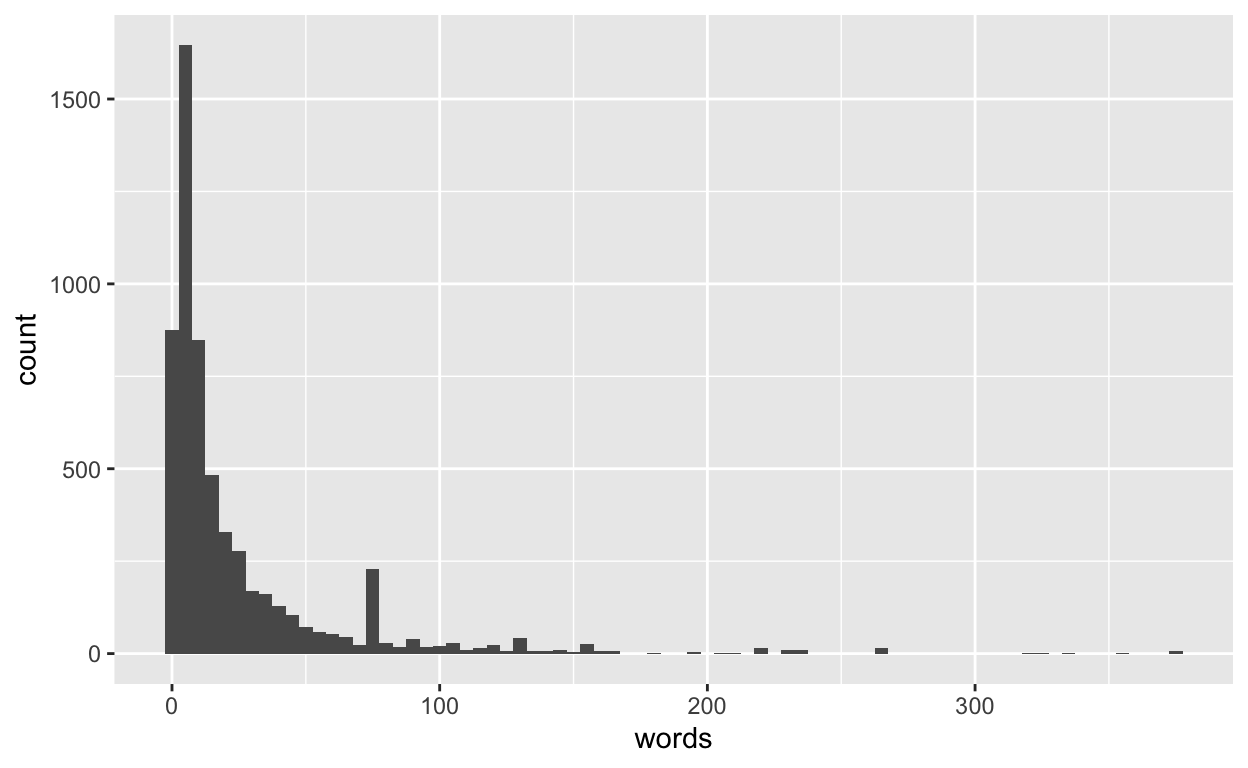
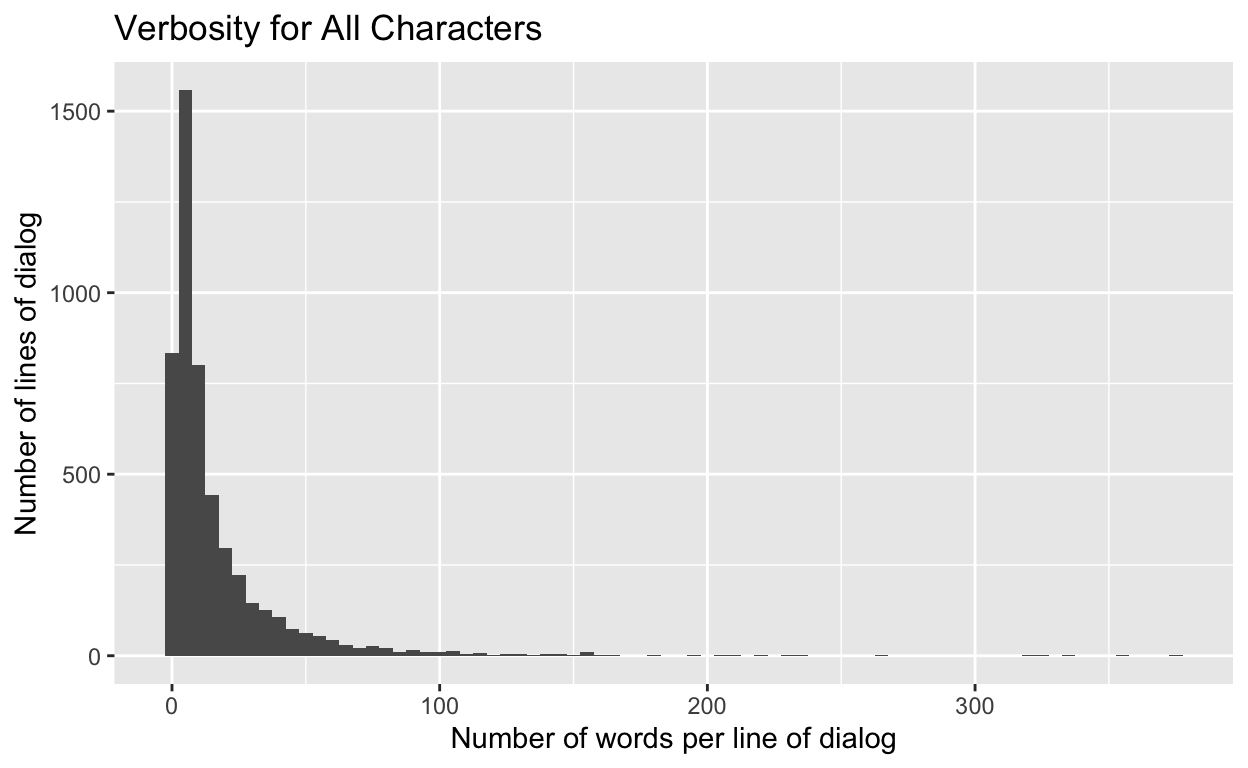
Build

diff --git a/docs/viz/2022-10-09-exploring-verbosity/index.html b/docs/viz/2022-10-09-exploring-verbosity/index.html
@@ -104,7 +104,7 @@ code span.wa { color: #5e5e5e; font-style: italic; } /* Warning */
 <meta property="og:type" content="article"/>
 <meta property="og:description" content="A brief look at how many words characters use per line of dialog"/>
 <meta property="og:url" content="https://syvwlch.github.io/Data-Ignota/viz/2022-10-09-exploring-verbosity/"/>
-<meta property="og:image" content="https://syvwlch.github.io/Data-Ignota/viz/2022-10-09-exploring-verbosity/exploring-verbosity_files/figure-html5/overall-1.png"/>
+<meta property="og:image" content="https://syvwlch.github.io/Data-Ignota/viz/2022-10-09-exploring-verbosity/exploring-verbosity_files/figure-html5/verbosity_wo_reader-1.png"/>
 <meta property="og:image:width" content="1248"/>
 <meta property="og:image:height" content="768"/>
 <meta property="og:locale" content="en_US"/>
@@ -115,7 +115,7 @@ code span.wa { color: #5e5e5e; font-style: italic; } /* Warning */
 <meta property="twitter:title" content="Data Ignota: Exploring Verbosity"/>
 <meta property="twitter:description" content="A brief look at how many words characters use per line of dialog"/>
 <meta property="twitter:url" content="https://syvwlch.github.io/Data-Ignota/viz/2022-10-09-exploring-verbosity/"/>
-<meta property="twitter:image" content="https://syvwlch.github.io/Data-Ignota/viz/2022-10-09-exploring-verbosity/exploring-verbosity_files/figure-html5/overall-1.png"/>
+<meta property="twitter:image" content="https://syvwlch.github.io/Data-Ignota/viz/2022-10-09-exploring-verbosity/exploring-verbosity_files/figure-html5/verbosity_wo_reader-1.png"/>
 <meta property="twitter:image:width" content="1248"/>
 <meta property="twitter:image:height" content="768"/>
 
@@ -134,7 +134,7 @@ code span.wa { color: #5e5e5e; font-style: italic; } /* Warning */
 <!--/radix_placeholder_rmarkdown_metadata-->
   
   <script type="text/json" id="radix-resource-manifest">
-  {"type":"character","attributes":{},"value":["exploring-verbosity_files/anchor-4.2.2/anchor.min.js","exploring-verbosity_files/bowser-1.9.3/bowser.min.js","exploring-verbosity_files/distill-2.2.21/template.v2.js","exploring-verbosity_files/figure-html5/overall-1.png","exploring-verbosity_files/header-attrs-2.16/header-attrs.js","exploring-verbosity_files/jquery-3.6.0/jquery-3.6.0.js","exploring-verbosity_files/jquery-3.6.0/jquery-3.6.0.min.js","exploring-verbosity_files/jquery-3.6.0/jquery-3.6.0.min.map","exploring-verbosity_files/popper-2.6.0/popper.min.js","exploring-verbosity_files/tippy-6.2.7/tippy-bundle.umd.min.js","exploring-verbosity_files/tippy-6.2.7/tippy-light-border.css","exploring-verbosity_files/tippy-6.2.7/tippy.css","exploring-verbosity_files/tippy-6.2.7/tippy.umd.min.js","exploring-verbosity_files/webcomponents-2.0.0/webcomponents.js"]}
+  {"type":"character","attributes":{},"value":["exploring-verbosity_files/anchor-4.2.2/anchor.min.js","exploring-verbosity_files/bowser-1.9.3/bowser.min.js","exploring-verbosity_files/distill-2.2.21/template.v2.js","exploring-verbosity_files/figure-html5/overall boxplot-1.png","exploring-verbosity_files/figure-html5/overall-1.png","exploring-verbosity_files/figure-html5/verbosity_by_character-1.png","exploring-verbosity_files/figure-html5/verbosity_by_language-1.png","exploring-verbosity_files/figure-html5/verbosity_Mycroft-1.png","exploring-verbosity_files/figure-html5/verbosity_wo_reader-1.png","exploring-verbosity_files/figure-html5/verbosity-1.png","exploring-verbosity_files/header-attrs-2.16/header-attrs.js","exploring-verbosity_files/jquery-3.6.0/jquery-3.6.0.js","exploring-verbosity_files/jquery-3.6.0/jquery-3.6.0.min.js","exploring-verbosity_files/jquery-3.6.0/jquery-3.6.0.min.map","exploring-verbosity_files/popper-2.6.0/popper.min.js","exploring-verbosity_files/tippy-6.2.7/tippy-bundle.umd.min.js","exploring-verbosity_files/tippy-6.2.7/tippy-light-border.css","exploring-verbosity_files/tippy-6.2.7/tippy.css","exploring-verbosity_files/tippy-6.2.7/tippy.umd.min.js","exploring-verbosity_files/webcomponents-2.0.0/webcomponents.js"]}
   </script>
   <!--radix_placeholder_navigation_in_header-->
 <meta name="distill:offset" content="../.."/>
@@ -2174,13 +2174,34 @@ RSS
 </div>
 
 <div class="d-article">
-<p>Let’s define, for now, verbosity as the tendency to use lots of words each time a character communicates with another.</p>
-<p>What visualizations of this concept can we generate from our <code>said.csv</code> file?</p>
+<p>Let’s define, for now, verbosity as the tendency to use lots of words each time a character communicates with another. What visualizations of this concept can we generate from the chapters edited to date, i.e. the first twelve?</p>
 <h2 id="overall-verbosity">Overall Verbosity</h2>
-<p>What does the distribution of the number of words per line look like?</p>
+<p>Verbosity overall in the novels follows a classic <em>Power Law Distribution</em> with a fairly long tail. This is pretty standard for human communications.</p>
 <div class="layout-chunk" data-layout="l-body">
-<p><img src="exploring-verbosity_files/figure-html5/overall-1.png" width="624" /></p>
+<p><img src="exploring-verbosity_files/figure-html5/verbosity-1.png" width="624" /></p>
 </div>
+<h2 id="verbosity-by-language">Verbosity by Language</h2>
+<p>Our cast of characters is much more verbose in some languages than others, e.g. archaic English, which the reader primarily uses to rant at Mycroft.</p>
+<div class="layout-chunk" data-layout="l-body">
+<p><img src="exploring-verbosity_files/figure-html5/verbosity_by_language-1.png" width="624" /></p>
+</div>
+<h2 id="verbosity-by-character">Verbosity by Character</h2>
+<p>Let’s define a main character as one who speaks or texts at least 25 lines of dialog, and look at a box plot of the number of words they use per line of dialog.</p>
+<div class="layout-chunk" data-layout="l-body">
+
+</div>
+<div class="layout-chunk" data-layout="l-body">
+<p><img src="exploring-verbosity_files/figure-html5/verbosity_by_character-1.png" width="624" /></p>
+</div>
+<p>Eureka’s median word count per line is highest, but Mycroft has some extreme outliers, as high as 350 words for one line of dialog off the right edge of that chart. Who could be on the receiving end of such prolixity?</p>
+<div class="layout-chunk" data-layout="l-body">
+<p><img src="exploring-verbosity_files/figure-html5/verbosity_Mycroft-1.png" width="624" /></p>
+</div>
+<p>Ah, of course. Mycroft is much more verbose in his historical &amp; philosophical asides to the reader. By contrast he’s almost monosyllabic with the Major. How does Mycroft’s verbosity compare to the others if we exclude the reader?</p>
+<div class="layout-chunk" data-layout="l-body">
+<p><img src="exploring-verbosity_files/figure-html5/verbosity_wo_reader-1.png" width="624" data-distill-preview=1 /></p>
+</div>
+<p>Mycroft is still in the top three but without his asides to the reader his verbosity is much more like the others’.</p>
 <div class="sourceCode" id="cb1"><pre class="sourceCode r distill-force-highlighting-css"><code class="sourceCode r"></code></pre></div>
 <!--radix_placeholder_article_footer-->
 <!--/radix_placeholder_article_footer-->

diff --git a/_viz/2022-10-09-exploring-verbosity/exploring-verbosity.html b/_viz/2022-10-09-exploring-verbosity/exploring-verbosity.html
@@ -118,7 +118,7 @@ code span.wa { color: #5e5e5e; font-style: italic; } /* Warning */
   <!--/radix_placeholder_rmarkdown_metadata-->
   
   <script type="text/json" id="radix-resource-manifest">
-  {"type":"character","attributes":{},"value":["exploring-verbosity_files/anchor-4.2.2/anchor.min.js","exploring-verbosity_files/bowser-1.9.3/bowser.min.js","exploring-verbosity_files/distill-2.2.21/template.v2.js","exploring-verbosity_files/figure-html5/overall-1.png","exploring-verbosity_files/header-attrs-2.16/header-attrs.js","exploring-verbosity_files/jquery-3.6.0/jquery-3.6.0.js","exploring-verbosity_files/jquery-3.6.0/jquery-3.6.0.min.js","exploring-verbosity_files/jquery-3.6.0/jquery-3.6.0.min.map","exploring-verbosity_files/popper-2.6.0/popper.min.js","exploring-verbosity_files/tippy-6.2.7/tippy-bundle.umd.min.js","exploring-verbosity_files/tippy-6.2.7/tippy-light-border.css","exploring-verbosity_files/tippy-6.2.7/tippy.css","exploring-verbosity_files/tippy-6.2.7/tippy.umd.min.js","exploring-verbosity_files/webcomponents-2.0.0/webcomponents.js"]}
+  {"type":"character","attributes":{},"value":["exploring-verbosity_files/anchor-4.2.2/anchor.min.js","exploring-verbosity_files/bowser-1.9.3/bowser.min.js","exploring-verbosity_files/distill-2.2.21/template.v2.js","exploring-verbosity_files/figure-html5/overall boxplot-1.png","exploring-verbosity_files/figure-html5/overall-1.png","exploring-verbosity_files/figure-html5/verbosity_by_character-1.png","exploring-verbosity_files/figure-html5/verbosity_by_language-1.png","exploring-verbosity_files/figure-html5/verbosity_Mycroft-1.png","exploring-verbosity_files/figure-html5/verbosity_wo_reader-1.png","exploring-verbosity_files/figure-html5/verbosity-1.png","exploring-verbosity_files/header-attrs-2.16/header-attrs.js","exploring-verbosity_files/jquery-3.6.0/jquery-3.6.0.js","exploring-verbosity_files/jquery-3.6.0/jquery-3.6.0.min.js","exploring-verbosity_files/jquery-3.6.0/jquery-3.6.0.min.map","exploring-verbosity_files/popper-2.6.0/popper.min.js","exploring-verbosity_files/tippy-6.2.7/tippy-bundle.umd.min.js","exploring-verbosity_files/tippy-6.2.7/tippy-light-border.css","exploring-verbosity_files/tippy-6.2.7/tippy.css","exploring-verbosity_files/tippy-6.2.7/tippy.umd.min.js","exploring-verbosity_files/webcomponents-2.0.0/webcomponents.js"]}
   </script>
   <!--radix_placeholder_navigation_in_header-->
   <!--/radix_placeholder_navigation_in_header-->
@@ -1519,13 +1519,34 @@ code span.wa { color: #5e5e5e; font-style: italic; } /* Warning */
 </div>
 
 <div class="d-article">
-<p>Let’s define, for now, verbosity as the tendency to use lots of words each time a character communicates with another.</p>
-<p>What visualizations of this concept can we generate from our <code>said.csv</code> file?</p>
+<p>Let’s define, for now, verbosity as the tendency to use lots of words each time a character communicates with another. What visualizations of this concept can we generate from the chapters edited to date, i.e. the first twelve?</p>
 <h2 id="overall-verbosity">Overall Verbosity</h2>
-<p>What does the distribution of the number of words per line look like?</p>
+<p>Verbosity overall in the novels follows a classic <em>Power Law Distribution</em> with a fairly long tail. This is pretty standard for human communications.</p>
 <div class="layout-chunk" data-layout="l-body">
-<p><img src="exploring-verbosity_files/figure-html5/overall-1.png" width="624" /></p>
+<p><img src="exploring-verbosity_files/figure-html5/verbosity-1.png" width="624" /></p>
 </div>
+<h2 id="verbosity-by-language">Verbosity by Language</h2>
+<p>Our cast of characters is much more verbose in some languages than others, e.g. archaic English, which the reader primarily uses to rant at Mycroft.</p>
+<div class="layout-chunk" data-layout="l-body">
+<p><img src="exploring-verbosity_files/figure-html5/verbosity_by_language-1.png" width="624" /></p>
+</div>
+<h2 id="verbosity-by-character">Verbosity by Character</h2>
+<p>Let’s define a main character as one who speaks or texts at least 25 lines of dialog, and look at a box plot of the number of words they use per line of dialog.</p>
+<div class="layout-chunk" data-layout="l-body">
+
+</div>
+<div class="layout-chunk" data-layout="l-body">
+<p><img src="exploring-verbosity_files/figure-html5/verbosity_by_character-1.png" width="624" /></p>
+</div>
+<p>Eureka’s median word count per line is highest, but Mycroft has some extreme outliers, as high as 350 words for one line of dialog off the right edge of that chart. Who could be on the receiving end of such prolixity?</p>
+<div class="layout-chunk" data-layout="l-body">
+<p><img src="exploring-verbosity_files/figure-html5/verbosity_Mycroft-1.png" width="624" /></p>
+</div>
+<p>Ah, of course. Mycroft is much more verbose in his historical &amp; philosophical asides to the reader. By contrast he’s almost monosyllabic with the Major. How does Mycroft’s verbosity compare to the others if we exclude the reader?</p>
+<div class="layout-chunk" data-layout="l-body">
+<p><img src="exploring-verbosity_files/figure-html5/verbosity_wo_reader-1.png" width="624" data-distill-preview=1 /></p>
+</div>
+<p>Mycroft is still in the top three but without his asides to the reader his verbosity is much more like the others’.</p>
 <div class="sourceCode" id="cb1"><pre class="sourceCode r distill-force-highlighting-css"><code class="sourceCode r"></code></pre></div>
 <!--radix_placeholder_article_footer-->
 <!--/radix_placeholder_article_footer-->

diff --git a/docs/viz.html b/docs/viz.html
@@ -2281,7 +2281,7 @@ function init_posts_list() {
 </div>
 </div>
 <div class="thumbnail">
-<img src="viz/2022-10-09-exploring-verbosity/exploring-verbosity_files/figure-html5/overall-1.png"/>
+<img src="viz/2022-10-09-exploring-verbosity/exploring-verbosity_files/figure-html5/verbosity_wo_reader-1.png"/>
 </div>
 <div class="description">
 <h2>Exploring Verbosity</h2>
